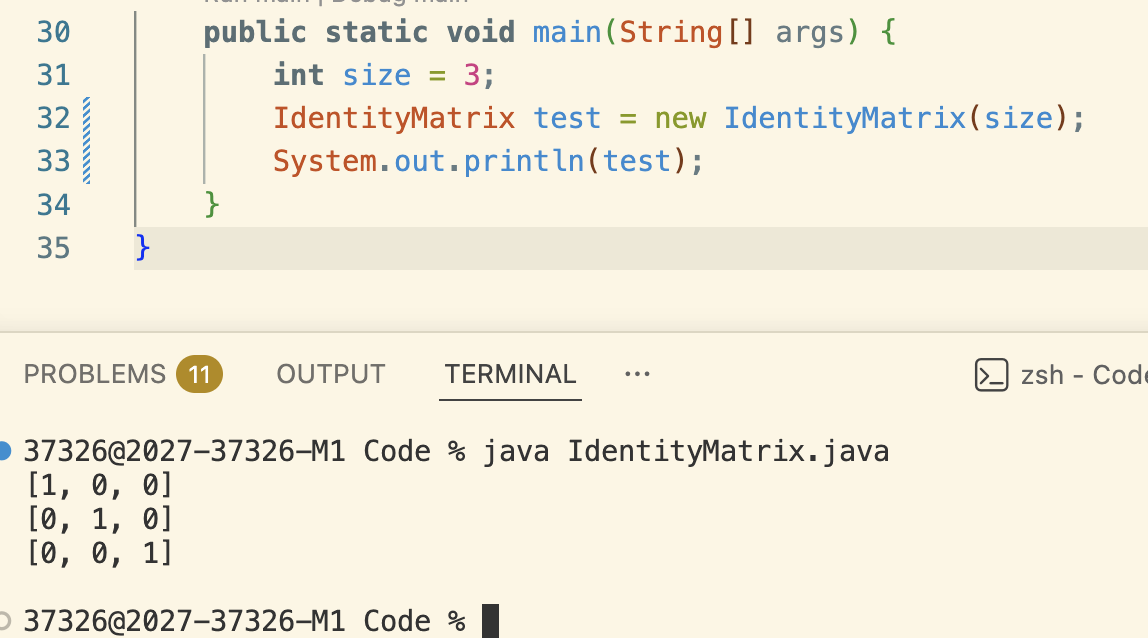
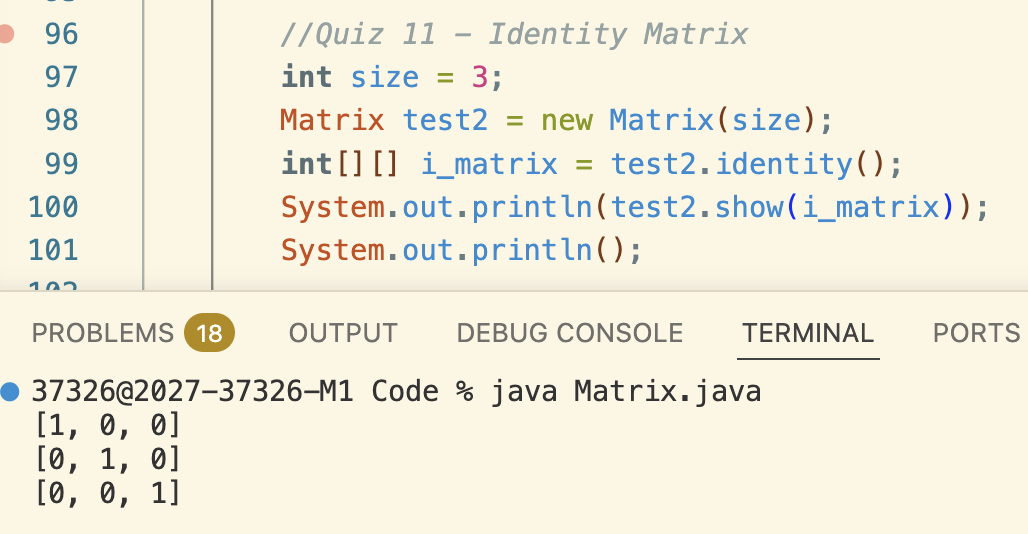
Updating Q11

diff --git a/Quizzes/Code/Matrix.java b/Quizzes/Code/Matrix.java
@@ -81,7 +81,7 @@ public class Matrix {
     }
 
     public static void main(String[] args) {
-        //Quiz 10 - Scaled Matrix:
+        /*//Quiz 10 - Scaled Matrix:
         int[][] matrix = {
                 {1, 2, 3},
                 {4, 5, 6},
@@ -91,6 +91,7 @@ public class Matrix {
         Matrix test = new Matrix(matrix);
         int[][] scaled_matrix = test.scale(scale);
         System.out.println(test.show(scaled_matrix));
+        */
 
         //Quiz 11 - Identity Matrix
         int size = 3;

diff --git a/Quizzes/quizzes.md b/Quizzes/quizzes.md
@@ -367,39 +367,24 @@ Create a class that receives a constant n and returns a identity matrix of size 
 
 ### Code Solution:
 ```java
-import java.util.Arrays;
-
-public class IdentityMatrix {
-    private int size;
-    private int[][] identity;
-    private String identityString;
-
-    public IdentityMatrix(int size) {
-        this.size = size;
-        identity = new int[size][size];
-
+    public int[][] identity() {
+        int size = matrix.length;
+        int[][] identity = new int[size][size];
         for (int i = 0; i < size; i++) {
-            for (int s = 0; s < size; s++) {
-                identity[i][s] = 0;
-                if (i == s) {
-                    identity[i][s] = 1;
+            for (int j = 0; j < size; j++) {
+                if (i == j) {
+                    identity[i][j] = 1;
+                } else {
+                    identity[i][j] = 0;
                 }
             }
         }
+        return identity;
     }
-
-    public String toString() {
-        String identityString = "";
-        for (int r = 0; r < identity.length; r++) {
-            identityString += Arrays.toString(identity[r]) + "\n";
-        }
-        return identityString;
-    }
-}
 ```
 
 ### Screenshot Proof:
-![alt text](Screenshots/Q11.png)
+![alt text](Screenshots/Q11.png?v=1.1)
 
 
 ## Quiz 12 - 10/09/26
